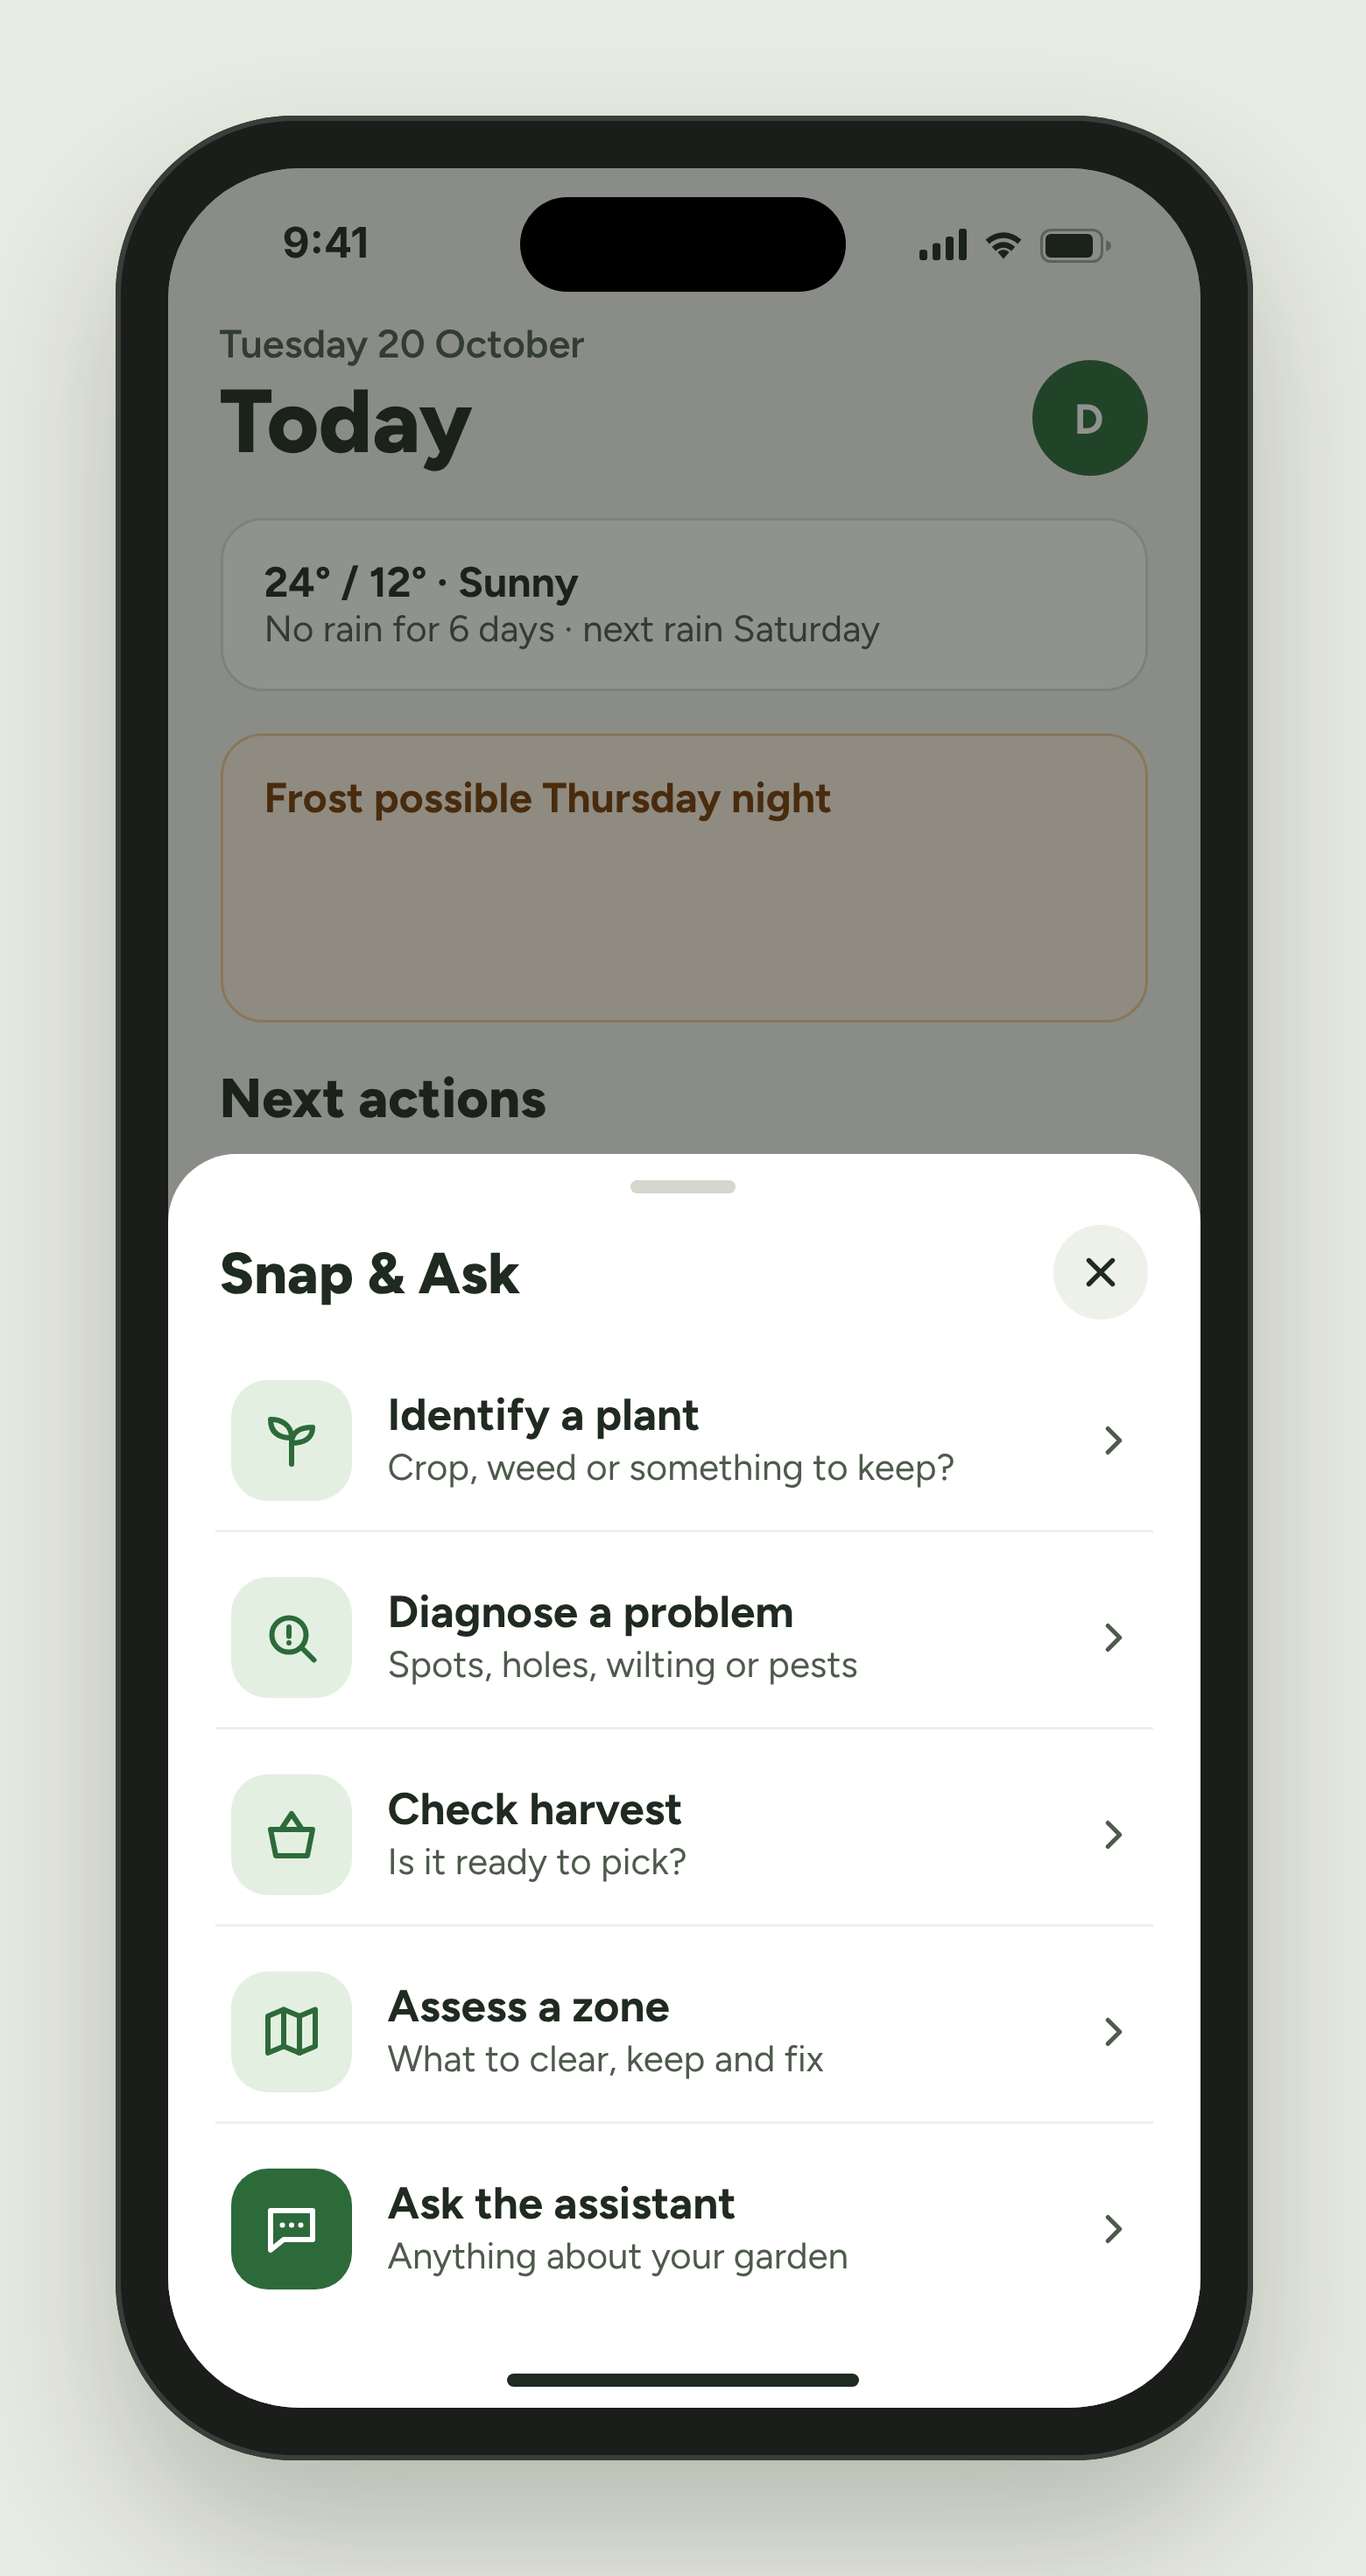
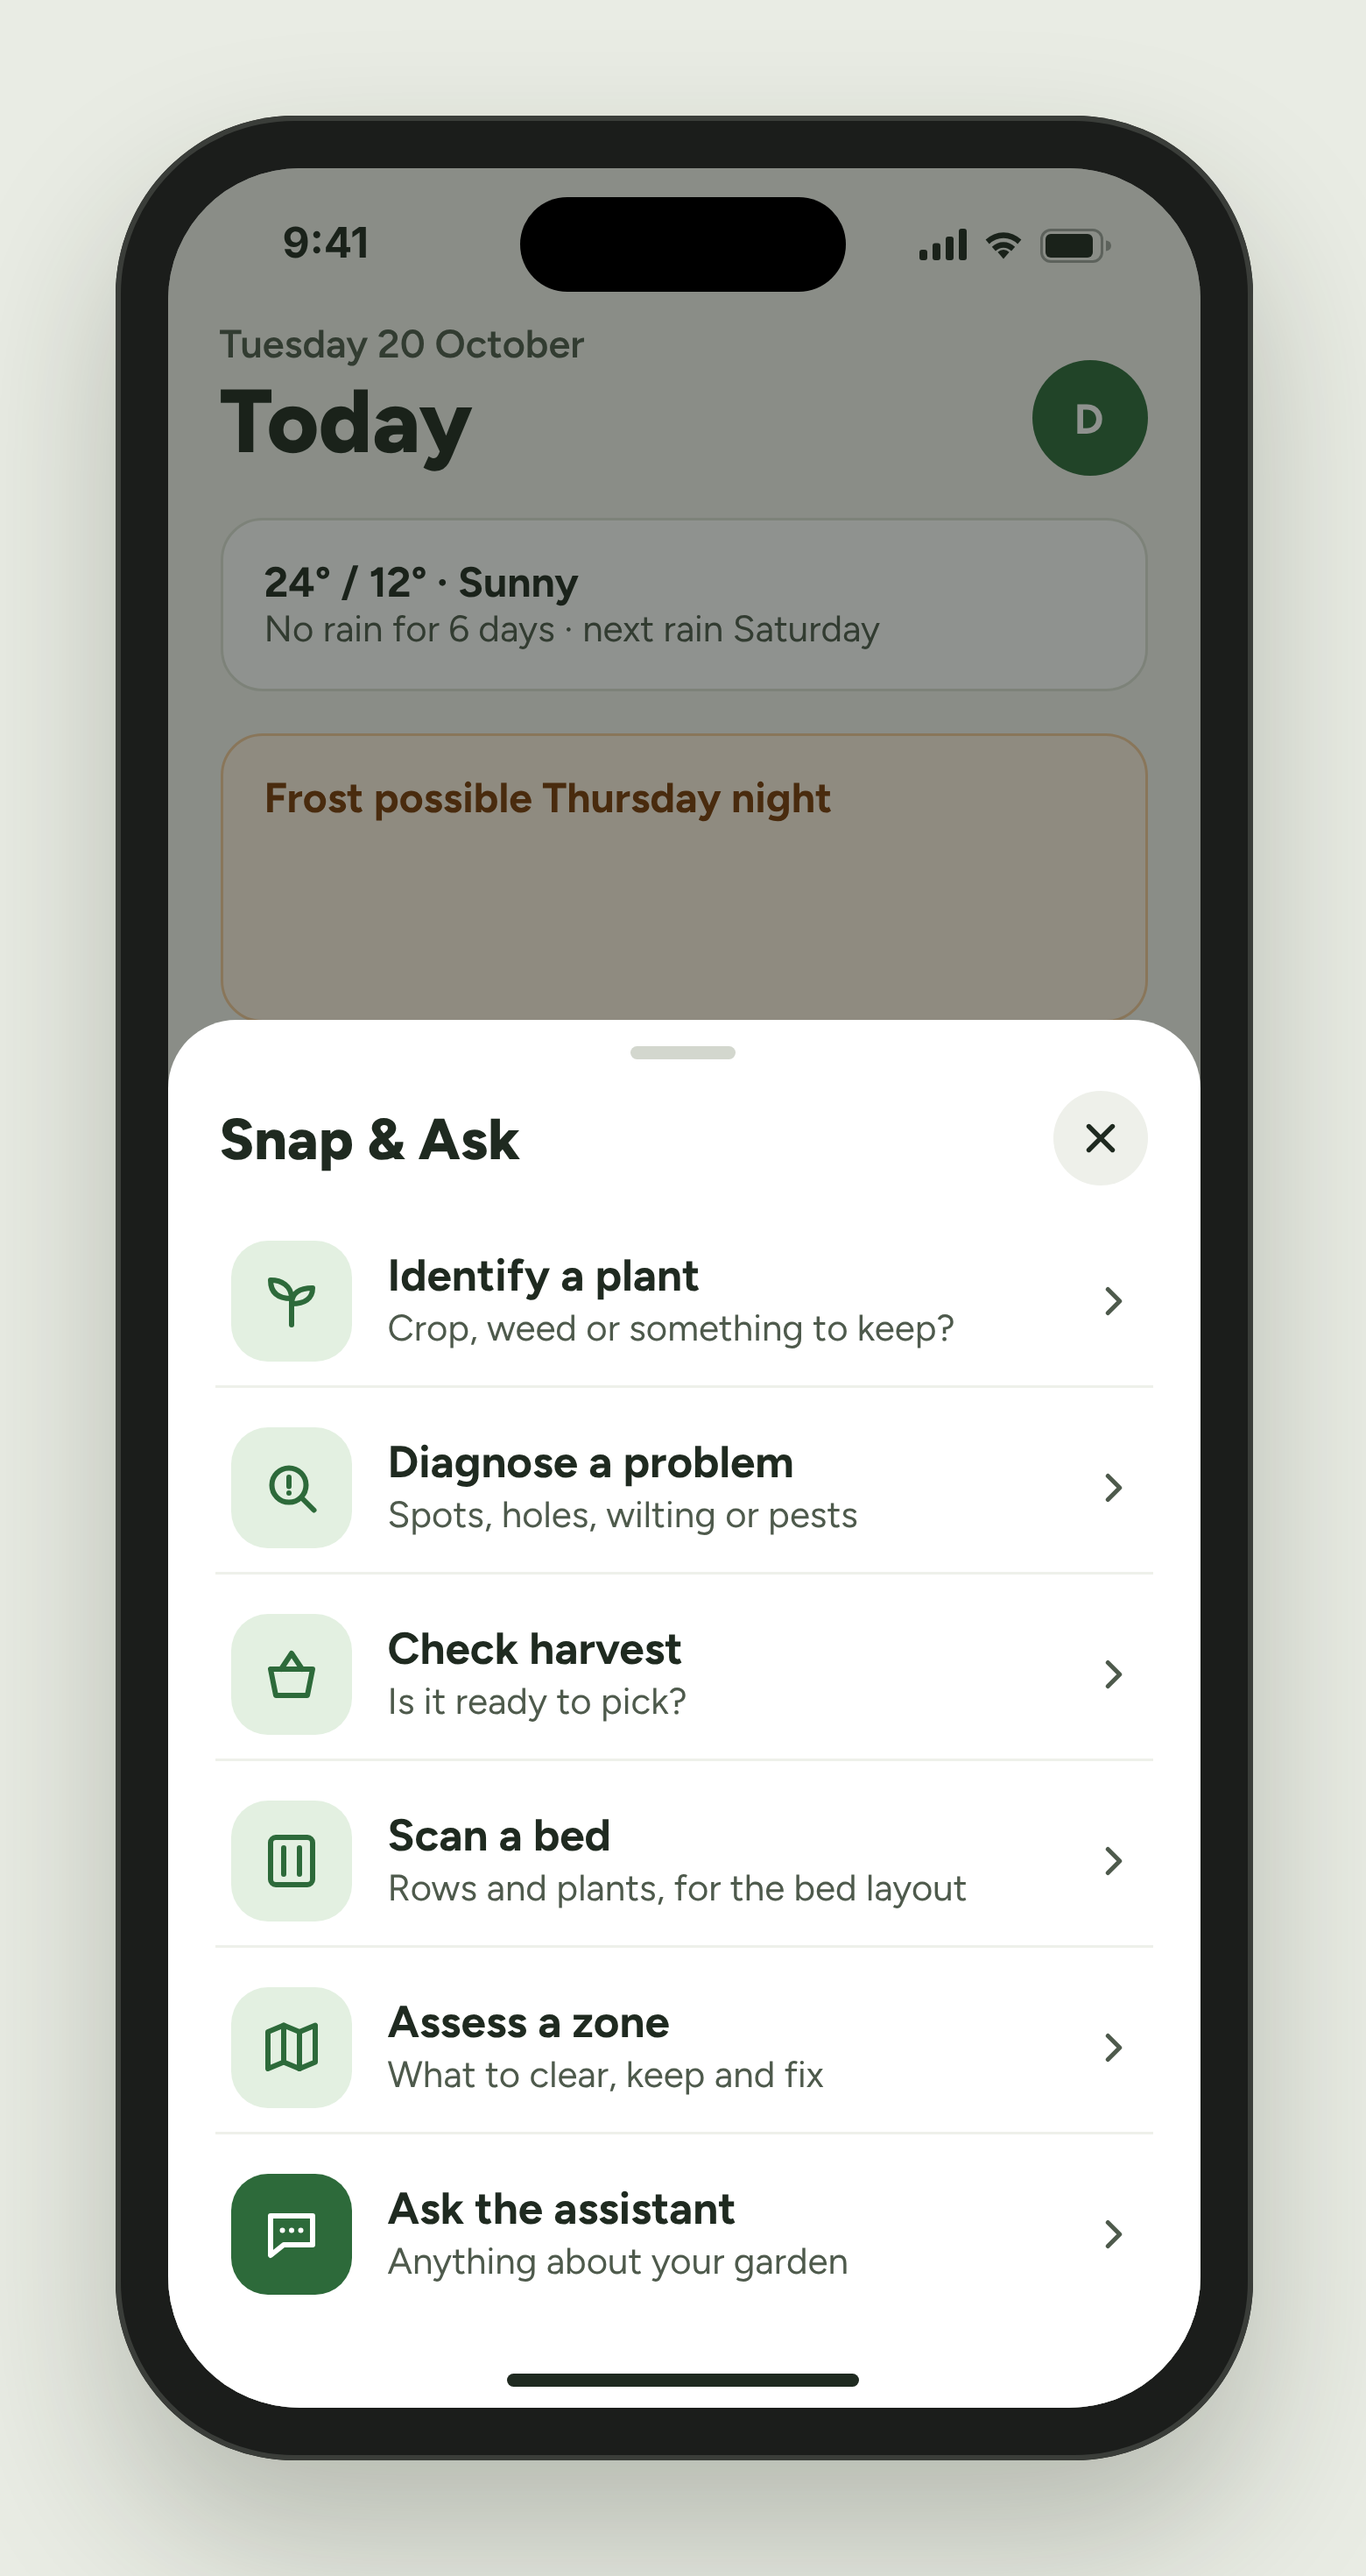
Design D1 Snap & Ask: add Scan a bed
Claude-Session: https://claude.ai/code/session_015NynAjU4naPZwzmeuGazot

diff --git a/design/source/D1-snap-menu.html b/design/source/D1-snap-menu.html
@@ -14,7 +14,7 @@
   .shead { display: flex; justify-content: space-between; align-items: center; padding: 0 2px 6px; }
   .shead h2 { margin: 0; font-size: 22px; font-weight: 800; }
   .close { width: 36px; height: 36px; border-radius: 999px; background: #EEF0EA; display: flex; align-items: center; justify-content: center; }
-  .opt { display: flex; align-items: center; gap: 14px; padding: 11px 6px; min-height: 64px; border-bottom: 1px solid #EEF0EA; }
+  .opt { display: flex; align-items: center; gap: 14px; padding: 9px 6px; min-height: 60px; border-bottom: 1px solid #EEF0EA; }
   .opt:last-child { border-bottom: none; }
   .oi { width: 46px; height: 46px; border-radius: 14px; background: var(--green-soft); display: flex; align-items: center; justify-content: center; flex: none; }
   .opt b { display: block; font-size: 17px; font-weight: 700; }
@@ -76,6 +76,11 @@
     <div class="opt">
       <div class="oi"><svg width="24" height="24" viewBox="0 0 24 24" fill="none" stroke="#2D6A3A" stroke-width="2" stroke-linecap="round" stroke-linejoin="round"><path d="M4 10h16l-2 10H6z"/><path d="M8 10l4-6 4 6"/></svg></div>
       <div><b>Check harvest</b><span class="d">Is it ready to pick?</span></div>
+      <svg class="chev" width="18" height="18" viewBox="0 0 24 24" fill="none" stroke="#4E5A4C" stroke-width="2.2" stroke-linecap="round" stroke-linejoin="round"><path d="M9 6l6 6-6 6"/></svg>
+    </div>
+    <div class="opt">
+      <div class="oi"><svg width="24" height="24" viewBox="0 0 24 24" fill="none" stroke="#2D6A3A" stroke-width="2" stroke-linecap="round" stroke-linejoin="round"><rect x="4" y="3" width="16" height="18" rx="2"/><path d="M9 7v10M15 7v10"/></svg></div>
+      <div><b>Scan a bed</b><span class="d">Rows and plants, for the bed layout</span></div>
       <svg class="chev" width="18" height="18" viewBox="0 0 24 24" fill="none" stroke="#4E5A4C" stroke-width="2.2" stroke-linecap="round" stroke-linejoin="round"><path d="M9 6l6 6-6 6"/></svg>
     </div>
     <div class="opt">
